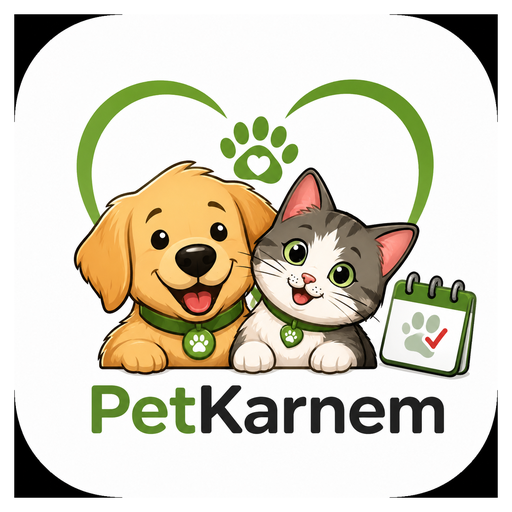
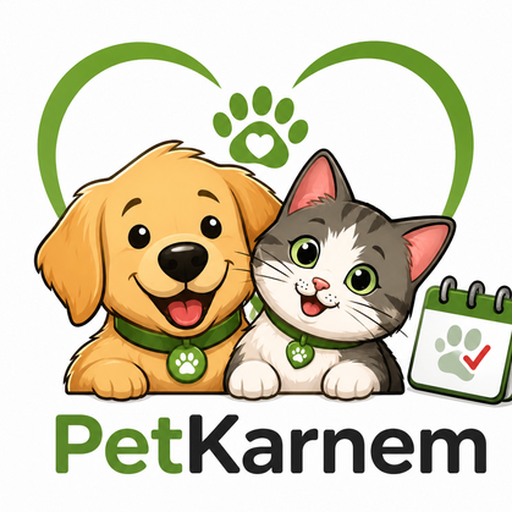
Add files via upload

diff --git a/index.html b/index.html
@@ -8,9 +8,9 @@
   <meta name="viewport" content="width=device-width,initial-scale=1,viewport-fit=cover">
   <meta name="theme-color" content="#237A57">
   <title>PetKarnem</title>
-  <link rel="manifest" href="manifest.webmanifest?v=2110">
-  <link rel="apple-touch-icon" href="icon-192.png">
-  <link rel="stylesheet" href="styles.css?v=2110">
+  <link rel="manifest" href="manifest.webmanifest?v=2111">
+  <link rel="apple-touch-icon" href="icon-192.png?v=2111">
+  <link rel="stylesheet" href="styles.css?v=2111">
 </head>
 <body>
 <input id="petPhotoPicker" type="file" accept="image/*" style="display:none">
@@ -54,7 +54,7 @@
       <div id="refPetsGrid" class="refPetsGrid"></div>
 
       <div class="refSectionHead refUpcomingHead">
-        <h2>Yaklaşanlar</h2>
+        <h2>Yaklaşan Planlar</h2>
         <button type="button" id="goCalendarBtn">Takvime Git ›</button>
       </div>
 
@@ -134,7 +134,7 @@
   </div>
 
   <div class="healthRefCard healthRefAddCard">
-    <div class="healthRefSectionTitle">Kayıt Ekle</div>
+    <div class="healthRefSectionTitle">Sağlık Kaydı Ekle</div>
     <div id="healthActions" class="healthRefActions"></div>
   </div>
 
@@ -163,7 +163,7 @@
 
     <section id="profileView" class="view">
       <h2>Profil & Ayarlar</h2>
-      <div class="card basicCard"><div class="basicBadge">PetKarnem Basic</div><h3>Ücretsiz</h3><div class="muted">Temel sağlık takibi, takvim ve veteriner kayıtları ücretsiz.</div></div>
+      <div class="card basicCard pkProfileBrandCard"><img class="pkProfileBrandLogo" src="petkarnem-approved-art.jpg" alt="PetKarnem"><div><div class="basicBadge">PetKarnem Basic</div><h3>Ücretsiz</h3><div class="muted">Temel sağlık takibi, takvim ve veteriner kayıtları ücretsiz.</div></div></div>
 
       <div class="settingsGroup"><h3>Hesabım</h3><div class="card settingsCard">
         <label>Ad</label><input id="profileName" placeholder="Adınız">
@@ -173,15 +173,7 @@
       </div></div>
 
       <div class="settingsGroup"><h3>Petlerim</h3><div id="profilePetsList" class="stack"></div></div>
-
-      <div class="settingsGroup"><h3>Bildirim Ayarları</h3><div class="card settingsCard">
-        <label>Varsayılan hatırlatma</label>
-        <select id="defaultReminder"><option value="1">1 gün önce</option><option value="3">3 gün önce</option><option value="7">7 gün önce</option><option value="14">14 gün önce</option></select>
-        <label class="toggleRow"><span>Gecikenleri tekrar göster</span><input id="repeatOverdue" type="checkbox"></label>
-        
-      </div></div>
-
-      <div class="settingsGroup"><h3>Bildirimler</h3><div class="card settingsCard">
+<div class="settingsGroup"><h3>Bildirimler</h3><div class="card settingsCard">
         <b>PetKarnem Bildirimleri</b>
         <div class="muted settingsNote">Randevu, aşı ve diğer hatırlatmalar zamanı geldiğinde bildirim gönderilir.</div>
         <div class="settingsRow"><span>Durum</span><b id="pushSubscriptionStatus">Kapalı</b></div>
@@ -205,7 +197,7 @@
 
       <div class="settingsGroup"><h3>Hakkında</h3><div class="card">
         <div class="settingsRow"><span>Uygulama</span><b>PetKarnem</b></div>
-        <div class="settingsRow"><span>Sürüm</span><b>Web Test v2.110</b></div>
+        <div class="settingsRow"><span>Sürüm</span><b>Web Test v2.111</b></div>
         <div class="settingsRow"><span>Plan</span><b>Basic • Ücretsiz</b></div>
         <div class="settingsLink">Gizlilik Politikası <span>›</span></div>
         <div class="settingsLink">Kullanım Koşulları <span>›</span></div>
@@ -238,7 +230,7 @@
   </form>
 </dialog>
 
-<script src="app.js?v=2110"></script>
+<script src="app.js?v=2111"></script>
 
 <script>
 (function(){

diff --git a/styles.css b/styles.css
@@ -1989,3 +1989,7 @@ button.primary.smallbtn:not(:disabled){
   font-weight:800;
   opacity:1!important;
 }
+
+/* v2.111 — Profil markası */
+.pkProfileBrandCard{display:flex;align-items:center;gap:14px}
+.pkProfileBrandLogo{width:68px;height:68px;object-fit:cover;border-radius:18px;flex:0 0 68px}
